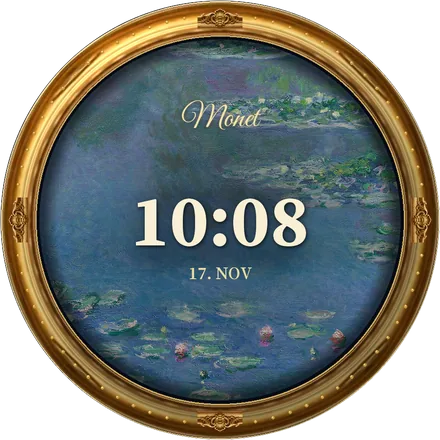
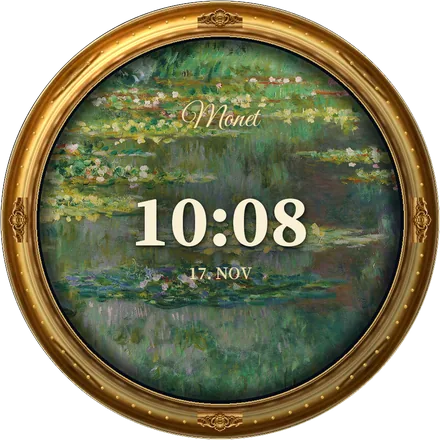
v10.30: neues Monet-Zifferblatt (Der Seerosenteich, 1904)

diff --git a/index.html b/index.html
@@ -6,7 +6,7 @@
 <meta name="theme-color" content="#f6f3ee">
 <meta name="apple-mobile-web-app-capable" content="yes">
 <title>Meisterwerke – Malen nach Zahlen</title>
-<link rel="stylesheet" href="style.css?v=1029">
+<link rel="stylesheet" href="style.css?v=1030">
 <link rel="preload" href="fonts/GreatVibes.woff2" as="font" type="font/woff2" crossorigin>
 <link rel="icon" href="icons/icon-192.png" type="image/png">
 <link rel="manifest" href="manifest.webmanifest">
@@ -60,7 +60,7 @@
     <footer class="gfoot">
       <button id="srcBtn" class="linkbtn" data-i18n-html="sourcesBtn">Bildquellen &amp; Hinweise</button>
       <a class="linkbtn" href="privacy.html" data-i18n="privacyLink">Datenschutz</a>
-      <div class="credit"><span class="byline" data-i18n="byline">von Masilano</span><span class="ver" data-i18n="version">Testversion 10.29</span></div>
+      <div class="credit"><span class="byline" data-i18n="byline">von Masilano</span><span class="ver" data-i18n="version">Testversion 10.30</span></div>
     </footer>
   </div>
 </section>
@@ -541,9 +541,9 @@
   </div>
 </div>
 
-<script src="paintings.js?v=1029"></script>
-<script src="story.js?v=1029"></script>
-<script src="path-index.js?v=1029"></script>
+<script src="paintings.js?v=1030"></script>
+<script src="story.js?v=1030"></script>
+<script src="path-index.js?v=1030"></script>
 <script data-src="path-vangogh.js"></script>
 <script data-src="music-vangogh.js"></script>
 <script data-src="path-monet.js"></script>
@@ -635,12 +635,12 @@
 <script data-src="es-content.js"></script>
 <script data-src="fr-content.js"></script>
 <script data-src="it-content.js"></script>
-<script src="i18n.js?v=1029"></script>
-<script src="levels.js?v=1029"></script>
-<script src="music.js?v=1029"></script>
-<script src="zifferblaetter.js?v=1029"></script>
+<script src="i18n.js?v=1030"></script>
+<script src="levels.js?v=1030"></script>
+<script src="music.js?v=1030"></script>
+<script src="zifferblaetter.js?v=1030"></script>
 <script src="rankings.js?v=1029"></script>
-<script src="app.js?v=1029"></script>
+<script src="app.js?v=1030"></script>
 <script>
 /* v10.28: if a mixed cache leaves raw i18n keys in the UI, restore markup fallbacks. */
 (function(){

diff --git a/zifferblaetter.js b/zifferblaetter.js
@@ -3,9 +3,10 @@
   'use strict';
   const CLAIM_KEY = 'masilano.faceClaims.v1';
   const FACES = [
-    { id:'monet', path:'monet', artist:'Claude Monet', year:'1906',
+    { id:'monet', path:'monet', artist:'Claude Monet', year:'1904',
+      m:{ de:'Denver Art Museum', en:'Denver Art Museum', fr:'Denver Art Museum', it:'Denver Art Museum', es:'Denver Art Museum' },
       n:{ de:'Seerosen', en:'Water Lilies', fr:'Nymphéas', it:'Ninfee', es:'Nenúfares' },
-      w:{ de:'Seerosen', en:'Water Lilies', fr:'Nymphéas', it:'Ninfee', es:'Nenúfares' } },
+      w:{ de:'Der Seerosenteich', en:'The Water Lily Pond', fr:'Le Bassin aux nymphéas', it:'Lo stagno delle ninfee', es:'El estanque de nenúfares' } },
     { id:'lilybridge', path:'monet', artist:'Claude Monet', year:'1899',
       n:{ de:'Seerosenbrücke', en:'Water Lily Bridge', fr:'Le Pont japonais', it:'Il ponte giapponese', es:'El puente japonés' },
       w:{ de:'Seerosen und japanische Brücke', en:'Water Lilies and Japanese Bridge', fr:'Nymphéas et pont japonais', it:'Ninfee e ponte giapponese', es:'Nenúfares y puente japonés' } },
@@ -281,7 +282,7 @@
     return '<div class="zf-big' + (st.done ? ' is-earned' : '') + '" data-face="' + f.id + '"><img src="' + img(f) + '" alt="" width="440" height="440"></div>' +
       '<p class="zf-kick">' + esc(st.soon ? P.soon : (st.done ? P.rewardKDone : fill(P.onPath, { path: pt }))) + '</p>' +
       '<h2 id="zfTitle">' + esc(loc(f.n)) + '</h2>' +
-      '<p class="zf-meta">' + esc(f.artist) + ' · ' + esc(loc(f.w)) + ', ' + esc(f.year) + '</p>' +
+      '<p class="zf-meta">' + esc(f.artist) + ' · ' + esc(loc(f.w)) + ', ' + esc(f.year) + (f.m ? ' · ' + esc(loc(f.m)) : '') + '</p>' +
       '<div class="zf-body">' + body + '</div><div class="btns zf-btns">' + btns + '</div><p class="zf-fine">' + esc(P.fine) + '</p>';
   }
   function openFace(id){

diff --git a/sw.js b/sw.js
@@ -1,5 +1,5 @@
 /* Meisterwerke – Malen nach Zahlen service worker. Generated by tools/build.py, do not edit by hand. */
-const VERSION = 'v1029';
+const VERSION = 'v1030';
 const CACHE = 'masilano-farben-' + VERSION;
 const SHELL = ["./", "achievements.css", "achievements.js", "app.js", "fonts/GreatVibes.woff2", "fonts/OFL-GreatVibes.txt", "i18n.js", "icon.svg", "icons/apple-touch-icon.png", "icons/icon-192.png", "icons/icon-512.png", "icons/icon-maskable-192.png", "icons/icon-maskable-512.png", "img/frame-baroque-gold-wide.webp", "img/frame-baroque-gold.webp", "img/frame-baroque-tile.webp", "img/frame-ivory-gold.webp", "img/paper.png", "index.html", "levels.js", "manifest.webmanifest", "music.js", "paintings.js", "path-ancher.js", "path-anker-p2.js", "path-anker.js", "path-blau.js", "path-calame.js", "path-cezanne-p2.js", "path-cezanne.js", "path-diday.js", "path-egner.js", "path-friedrich-p2.js", "path-friedrich.js", "path-giacometti.js", "path-hiroshige-p2.js", "path-hiroshige.js", "path-hodler-p2.js", "path-hodler.js", "path-hokusai-p2.js", "path-hokusai.js", "path-index.js", "path-klimt-p2.js", "path-klimt.js", "path-koller.js", "path-monet-p2.js", "path-monet-p3.js", "path-monet.js", "path-moser.js", "path-pissarro-p2.js", "path-pissarro.js", "path-rembrandt-p2.js", "path-rembrandt.js", "path-renoir-p2.js", "path-renoir.js", "path-schindler.js", "path-segantini.js", "path-sisley-p2.js", "path-sisley.js", "path-spitzweg.js", "path-turner-p2.js", "path-turner.js", "path-vallotton.js", "path-vangogh.js", "path-wisinger.js", "path-wolf.js", "path-zuend.js", "privacy.html", "rankings.js", "shop-config.js", "shop-res.js", "shop.css", "shop.js", "story.js", "style.css", "zifferblaetter.js"];
 const ASSET_Q = '?v=' + String(VERSION).replace(/^v/, '');

diff --git a/i18n.js b/i18n.js
@@ -15,7 +15,7 @@
       searchClear: 'Suche löschen',
       sourcesBtn: 'Bildquellen & Hinweise',
       privacyLink: 'Datenschutz',
-      version: 'Testversion 10.29',
+      version: 'Testversion 10.30',
       byline: 'von Masilano',
       back: 'Zurück',
       backGallery: 'Zurück zur Galerie',
@@ -267,7 +267,7 @@
       searchClear: 'Clear search',
       sourcesBtn: 'Picture sources & notes',
       privacyLink: 'Privacy',
-      version: 'Test version 10.29',
+      version: 'Test version 10.30',
       byline: 'by Masilano',
       back: 'Back',
       backGallery: 'Back to the gallery',
@@ -519,7 +519,7 @@
       searchClear: "Borrar búsqueda",
       sourcesBtn: "Fuentes e indicaciones",
       privacyLink: "Privacidad",
-      version: "Versión de prueba 10.29",
+      version: "Versión de prueba 10.30",
       byline: "de Masilano",
       back: "Atrás",
       backGallery: "Volver a la galería",
@@ -771,7 +771,7 @@
       searchClear: "Effacer la recherche",
       sourcesBtn: "Sources et notes",
       privacyLink: "Confidentialité",
-      version: "Version d’essai 10.29",
+      version: "Version d’essai 10.30",
       byline: "par Masilano",
       back: "Retour",
       backGallery: "Retour à la galerie",
@@ -1023,7 +1023,7 @@
       searchClear: "Cancella la ricerca",
       sourcesBtn: "Fonti e note",
       privacyLink: "Privacy",
-      version: "Versione di prova 10.29",
+      version: "Versione di prova 10.30",
       byline: "di Masilano",
       back: "Indietro",
       backGallery: "Torna alla galleria",

diff --git a/app.js b/app.js
@@ -3305,14 +3305,14 @@ function loadShop(){
     if (!document.querySelector('link[data-shop-css]')) {
       const l = document.createElement('link');
       l.rel = 'stylesheet';
-      l.href = 'shop.css?v=1029';
+      l.href = 'shop.css?v=1030';
       l.setAttribute('data-shop-css', '1');
       document.head.appendChild(l);
     }
     const need = [];
-    if (!window.MASILANO_SHOP_CONFIG) need.push('shop-config.js?v=1029');
-    if (!window.MASILANO_SHOP_RES) need.push('shop-res.js?v=1029');
-    need.push('shop.js?v=1029');
+    if (!window.MASILANO_SHOP_CONFIG) need.push('shop-config.js?v=1030');
+    if (!window.MASILANO_SHOP_RES) need.push('shop-res.js?v=1030');
+    need.push('shop.js?v=1030');
     let i = 0;
     const next = () => {
       if (i >= need.length) {
@@ -3380,7 +3380,7 @@ bindShopEntries();
 let swReload = false;
 if ('serviceWorker' in navigator && (location.protocol === 'https:' || location.hostname === 'localhost' || location.hostname === '127.0.0.1')) {
   const hadCtrl = !!navigator.serviceWorker.controller;
-  navigator.serviceWorker.register('./sw.js?v=1029', { scope: './' }).catch(e => console.warn('SW', e));
+  navigator.serviceWorker.register('./sw.js?v=1030', { scope: './' }).catch(e => console.warn('SW', e));
   function requestSwReload(){
     if (!hadCtrl) return;           // first install: nothing to reload
     if (S) swReload = true; else location.reload();
